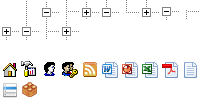
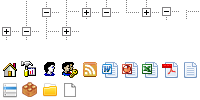
增加了folder和file两个图标样式。

Changed region(s): [[0.21, 0.81, 0.39, 0.99]]

diff --git a/js/jsxmltree.js b/js/jsxmltree.js
@@ -289,11 +289,11 @@ function toggleNode(obj) {
 /* 点击展开或收起某个节点（通过点击节点文本）
  * ========================== */
 function toggleClick(obj) {
-	if ($(obj).parent().parent().children("[class$=-plus]")[0] != undefined) {
-		$(obj).parent().parent().children("[class$=-plus]").click();
+	if ($(obj).parent().parent().find("[class$=-plus]")[0] != undefined) {
+		$(obj).parent().parent().find("[class$=-plus]").click();
 	}
-	else if ($(obj).parent().parent().children("[class$=-minus]")[0] != undefined) {
-		$(obj).parent().parent().children("[class$=-minus]").click();
+	else if ($(obj).parent().parent().find("[class$=-minus]")[0] != undefined) {
+		$(obj).parent().parent().find("[class$=-minus]").click();
 	}
 }
 

diff --git a/css/jsxmltree.css b/css/jsxmltree.css
@@ -149,6 +149,14 @@
 	background-position: -20px -80px;
 }
 
+.piece-icon-folder {
+	background-position: -40px -80px;
+}
+
+.piece-icon-file {
+	background-position: -60px -80px;
+}
+
 
 /* 节点的文本样式 */
 .piece-text {
